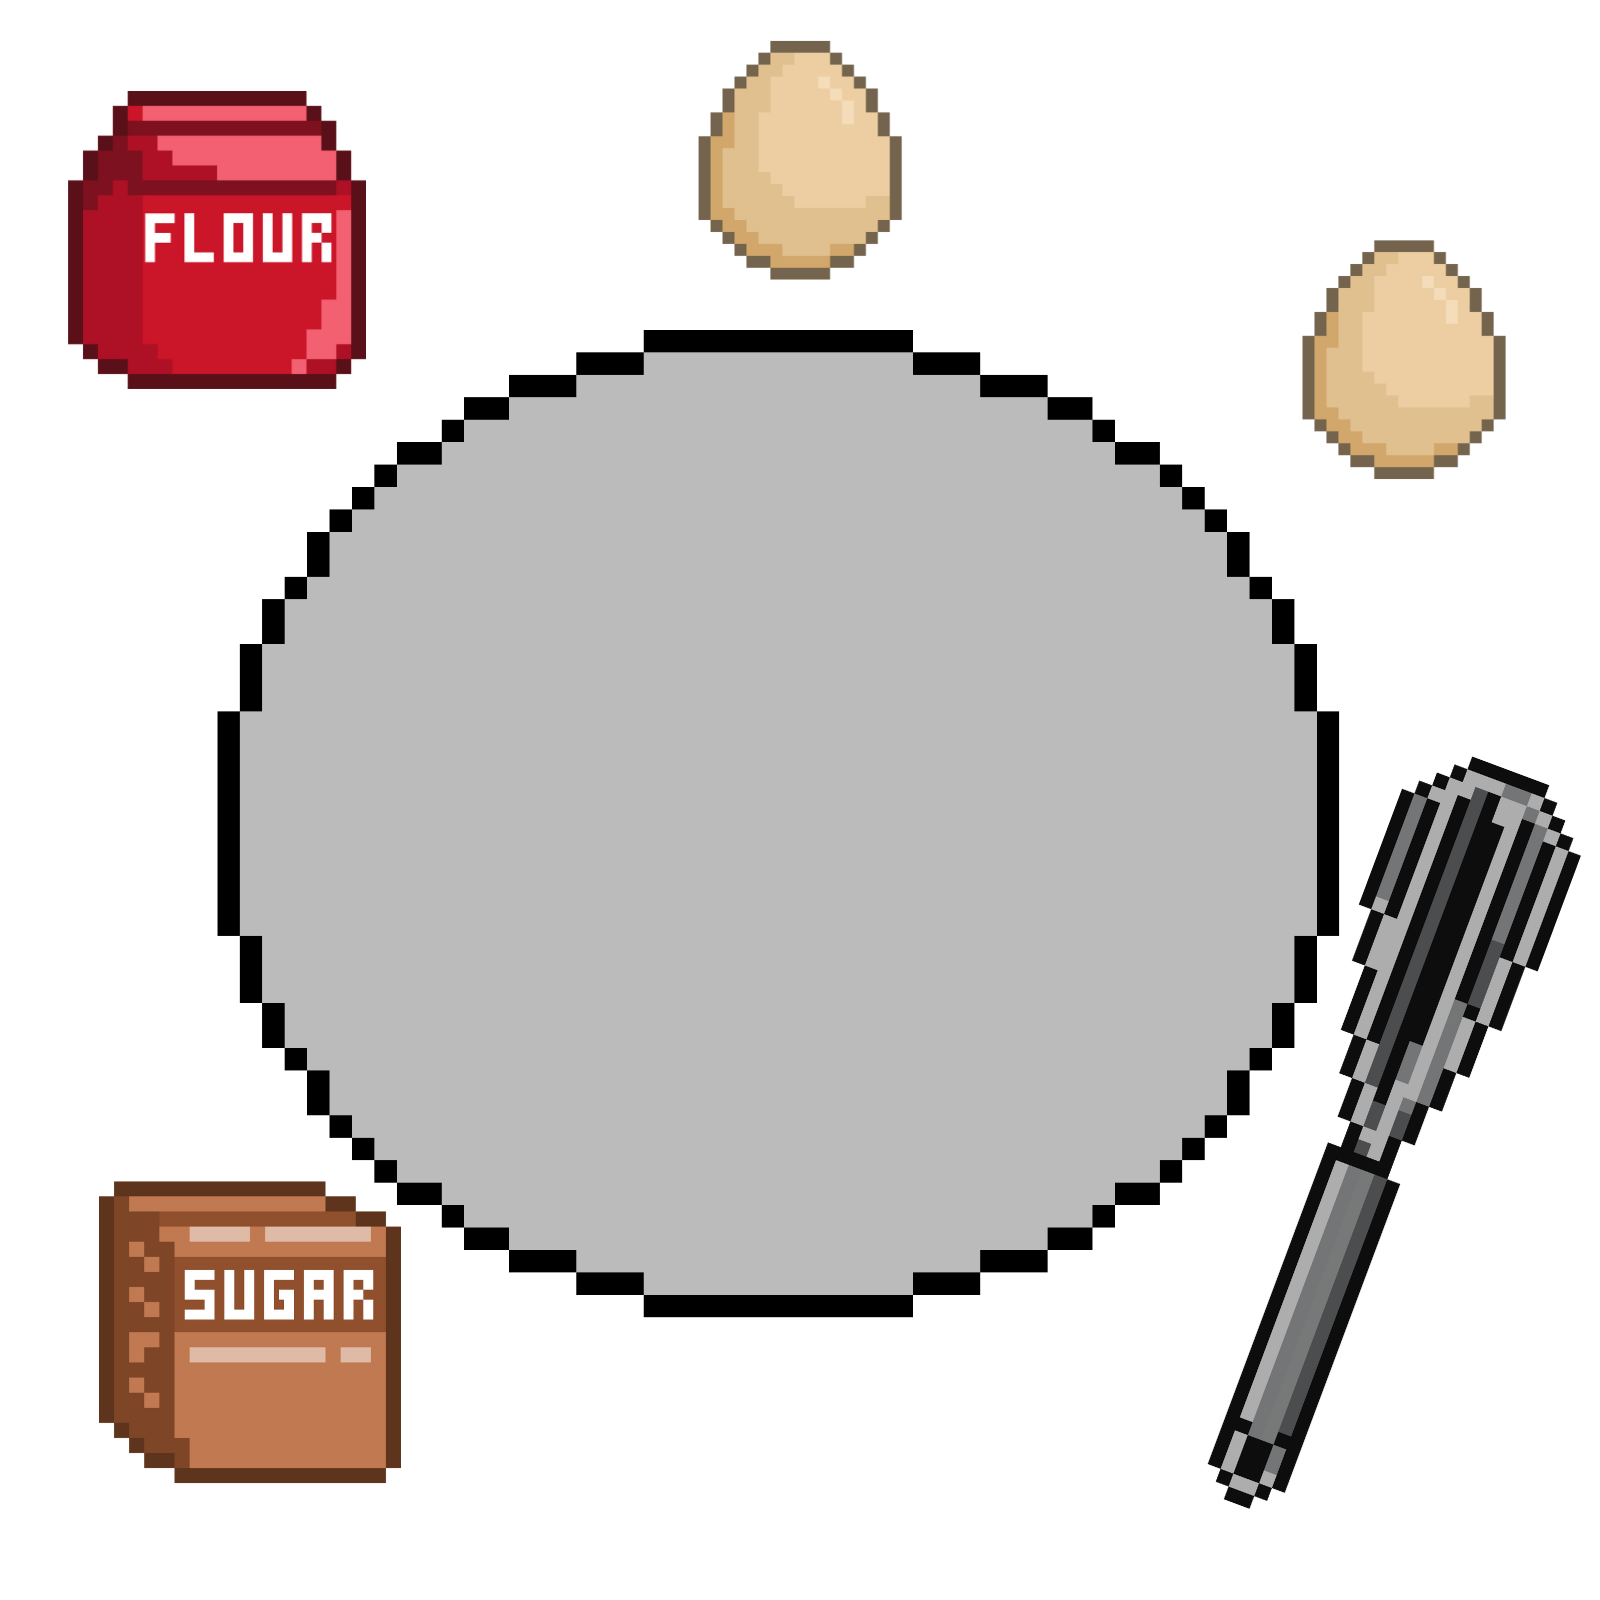
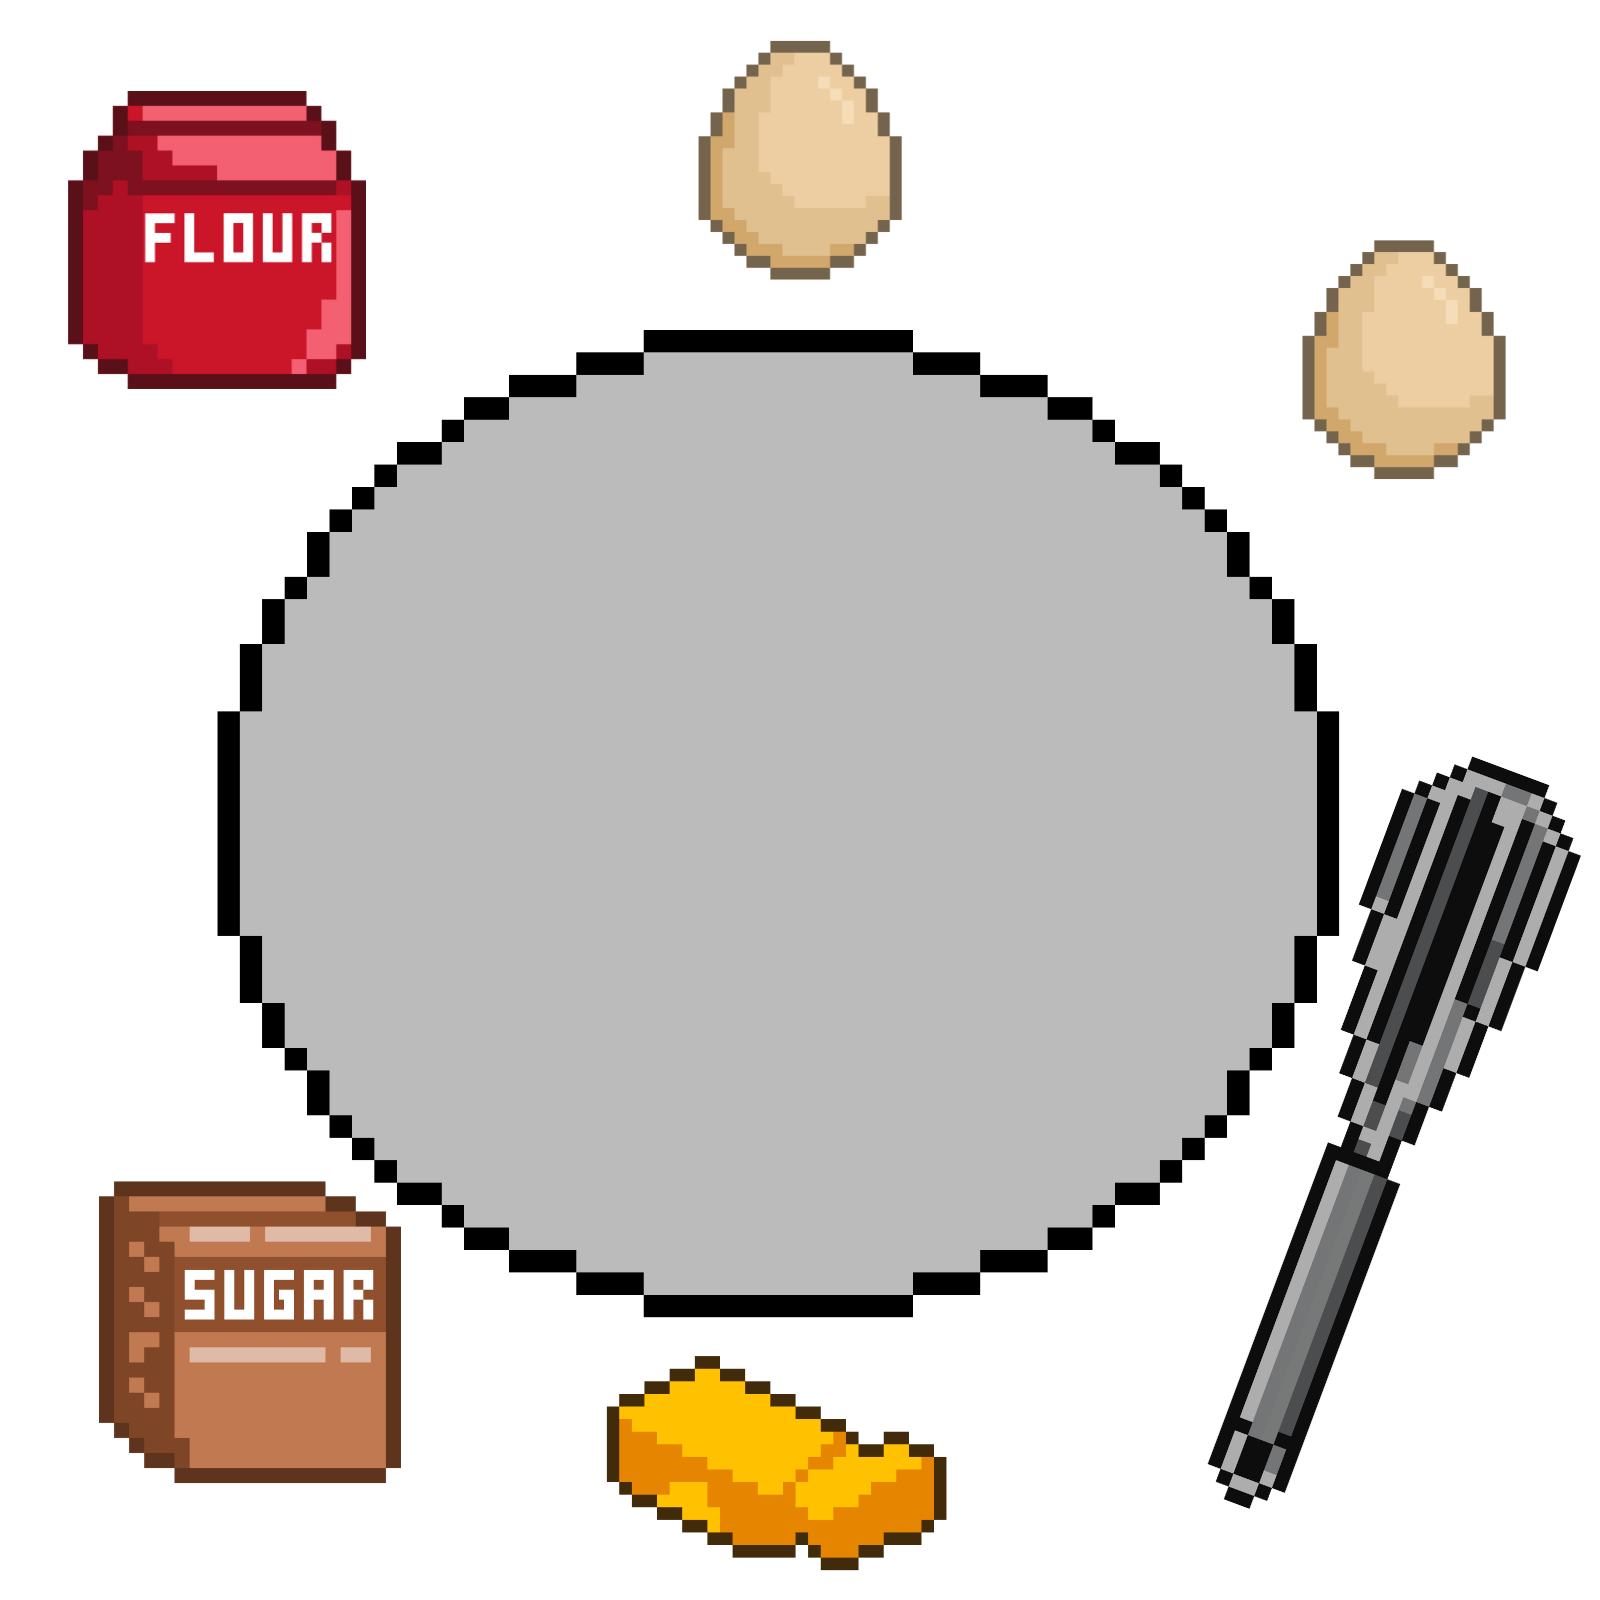
Finalized game

Changed region(s): [[0.375, 0.8438, 0.5938, 1.0]]

diff --git a/src/Game.java b/src/Game.java
@@ -153,18 +153,18 @@ public class Game extends JFrame implements ActionListener,KeyListener, GameEven
         // Create the overlay panel
         URL nextUrl = Game.class.getResource("images/nextScreen.png");
         ImageIcon nextIcon = new ImageIcon(nextUrl);
-        Image resizedNextIcon = nextIcon.getImage().getScaledInstance(362, 408, Image.SCALE_SMOOTH);
+        Image resizedNextIcon = nextIcon.getImage().getScaledInstance(362, 241, Image.SCALE_SMOOTH);
 
         nextP = new JPanel(null) {
             @Override
             protected void paintComponent(Graphics g) {
                 super.paintComponent(g);
                 // Draw the background image
-                g.drawImage(resizedNextIcon, 0, 0, 362, 408, this);
+                g.drawImage(resizedNextIcon, 0, 0, 362, 241, this);
             }
         };
 
-        nextP.setBounds(319, 196, 362, 408);
+        nextP.setBounds(600, 196, 362, 241);
 
         // Add the "Next" button
         next = new JButton();
@@ -230,18 +230,18 @@ public class Game extends JFrame implements ActionListener,KeyListener, GameEven
 
         URL overURL = Game.class.getResource("images/GameOver.png");
         ImageIcon overIcon = new ImageIcon(overURL);
-        Image resizedGameOverIcon = overIcon.getImage().getScaledInstance(362, 408, Image.SCALE_SMOOTH);
+        Image resizedGameOverIcon = overIcon.getImage().getScaledInstance(362, 241, Image.SCALE_SMOOTH);
 
         gameOverP = new JPanel(null) {
             @Override
             protected void paintComponent(Graphics g) {
                 super.paintComponent(g);
                 // Draw the background image
-                g.drawImage(resizedGameOverIcon, 0, 0, 362, 408, this);
+                g.drawImage(resizedGameOverIcon, 0, 0, 357, 241, this);
             }
         };
 
-        gameOverP.setBounds(319, 196, 362, 408);
+        gameOverP.setBounds(319, 196, 357, 241);
 
         home = new JButton();
         home.setBounds(71, 149, 219, 60);

diff --git a/src/FallingObjectsGame.java b/src/FallingObjectsGame.java
@@ -31,7 +31,7 @@ public class FallingObjectsGame {
         p_ = person;
         imgPath = "images/milk.png"; //default
 
-        imagePaths = new String[]{"images/egg.png", "images/flour.png", "images/sugar.png", "images/milk.png"};
+        imagePaths = new String[]{"images/egg.png", "images/flour.png", "images/sugar.png", "images/butter.png"};
 
         pb = new JProgressBar(0, 100); //score progress bar
 

diff --git a/src/Bake.java b/src/Bake.java
@@ -41,7 +41,7 @@ public class Bake {
             image = new ImageIcon(scaledImage);
             imgLabel[i] = new JLabel(image);
             imgLabel[i].setSize(500, 500);
-            imgLabel[i].setLocation(250, 150);
+            imgLabel[i].setLocation(75, 150);
         }
 
         // Load progress bar background image
